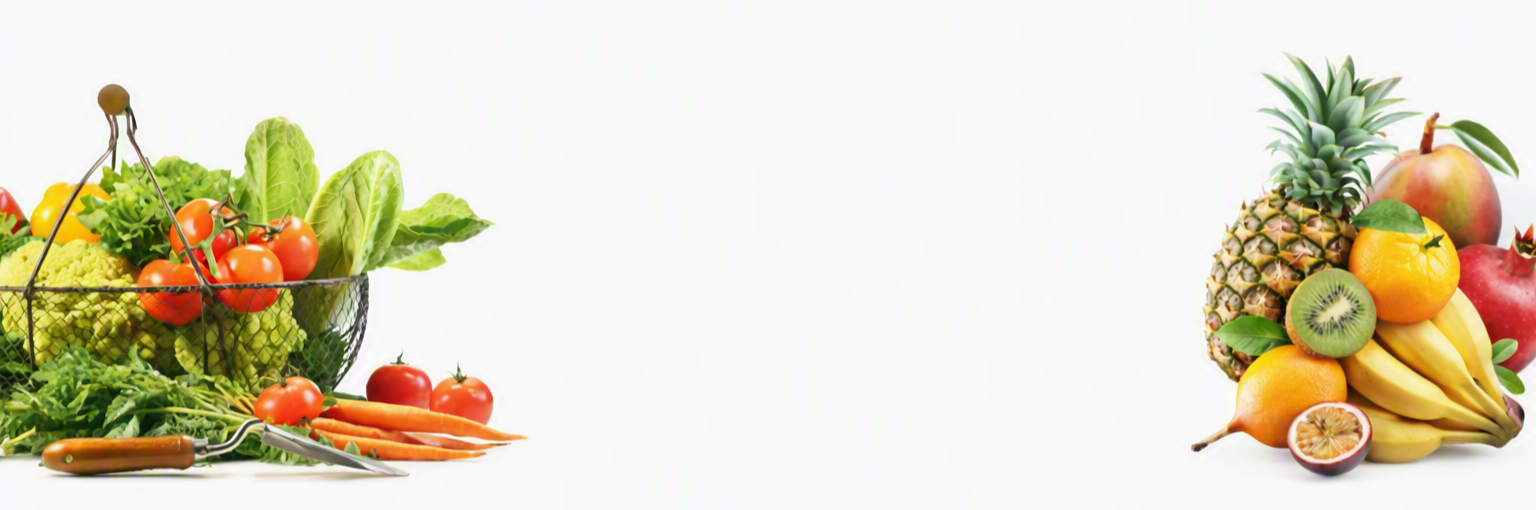
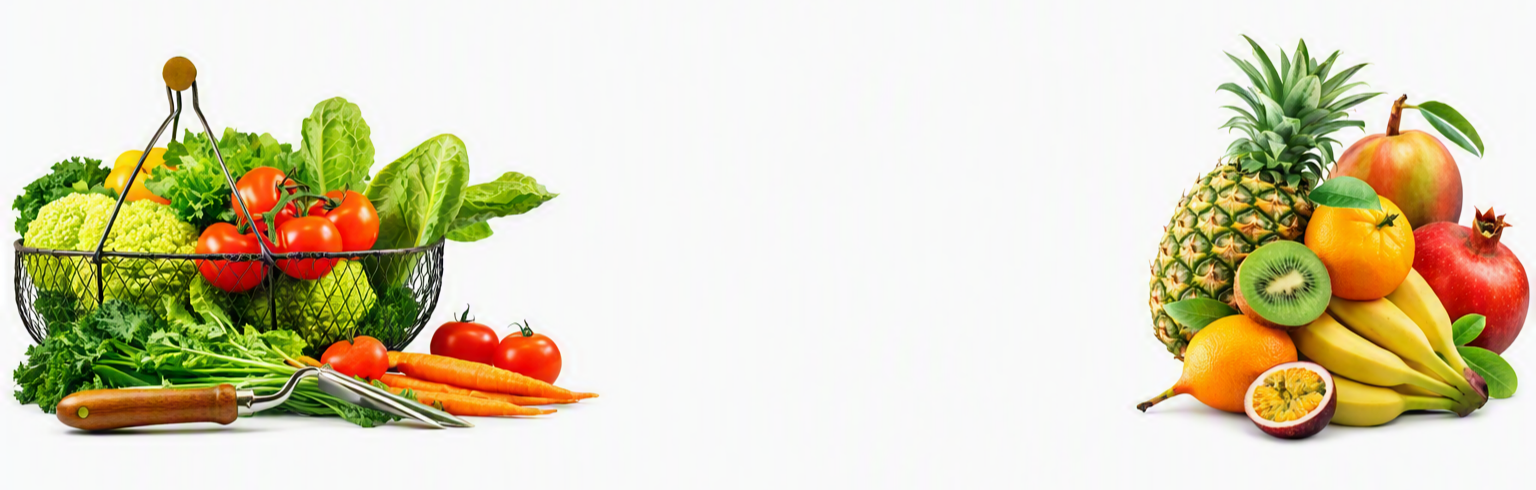
adjusted the background image

diff --git a/style.css b/style.css
@@ -301,23 +301,37 @@ section{
 
 .banner
 {
-  border: 1px solid; 
+  border: 0px solid; 
   display:flex;
   justify-content: center;
   background: url(tasbir/veg.png) no-repeat;
   background-position: center;
   background-size: cover;
-  padding-top: 17rem;
+  padding-top: 20rem;
   padding-bottom: 10rem;
   
 }
 
 .content
 {
-  border: 1px solid;
+  border: 0px solid;
   text-align: center;
   width: 60rem;
+  position: relative;
+  left: 90px;
   
+}
+
+.banner .content h3
+{
+  color: var(--black);
+  font-size: 3rem;
+}
+
+.banner .content p
+{
+  color: var(--light-color);
+  font-size: 1.7rem;
 }
 
 

diff --git a/index.html b/index.html
@@ -59,8 +59,8 @@
     <!-- banner section -->
     <section class="banner" id="index">
       <div class="content">
-        <h3>Fresh and <span>Organic</span> Products</h3>
-        <p>We deliever Fresh and Organic Products for you at your doorstep</p>
+        <h3>Skip the market! Choose Fresh!</h3>
+        <p>Get farm-fresh goodness delivered straight to your doorstep.</p>
         <a href="#" class="btn">shop now</a>
       </div>
     </section>
